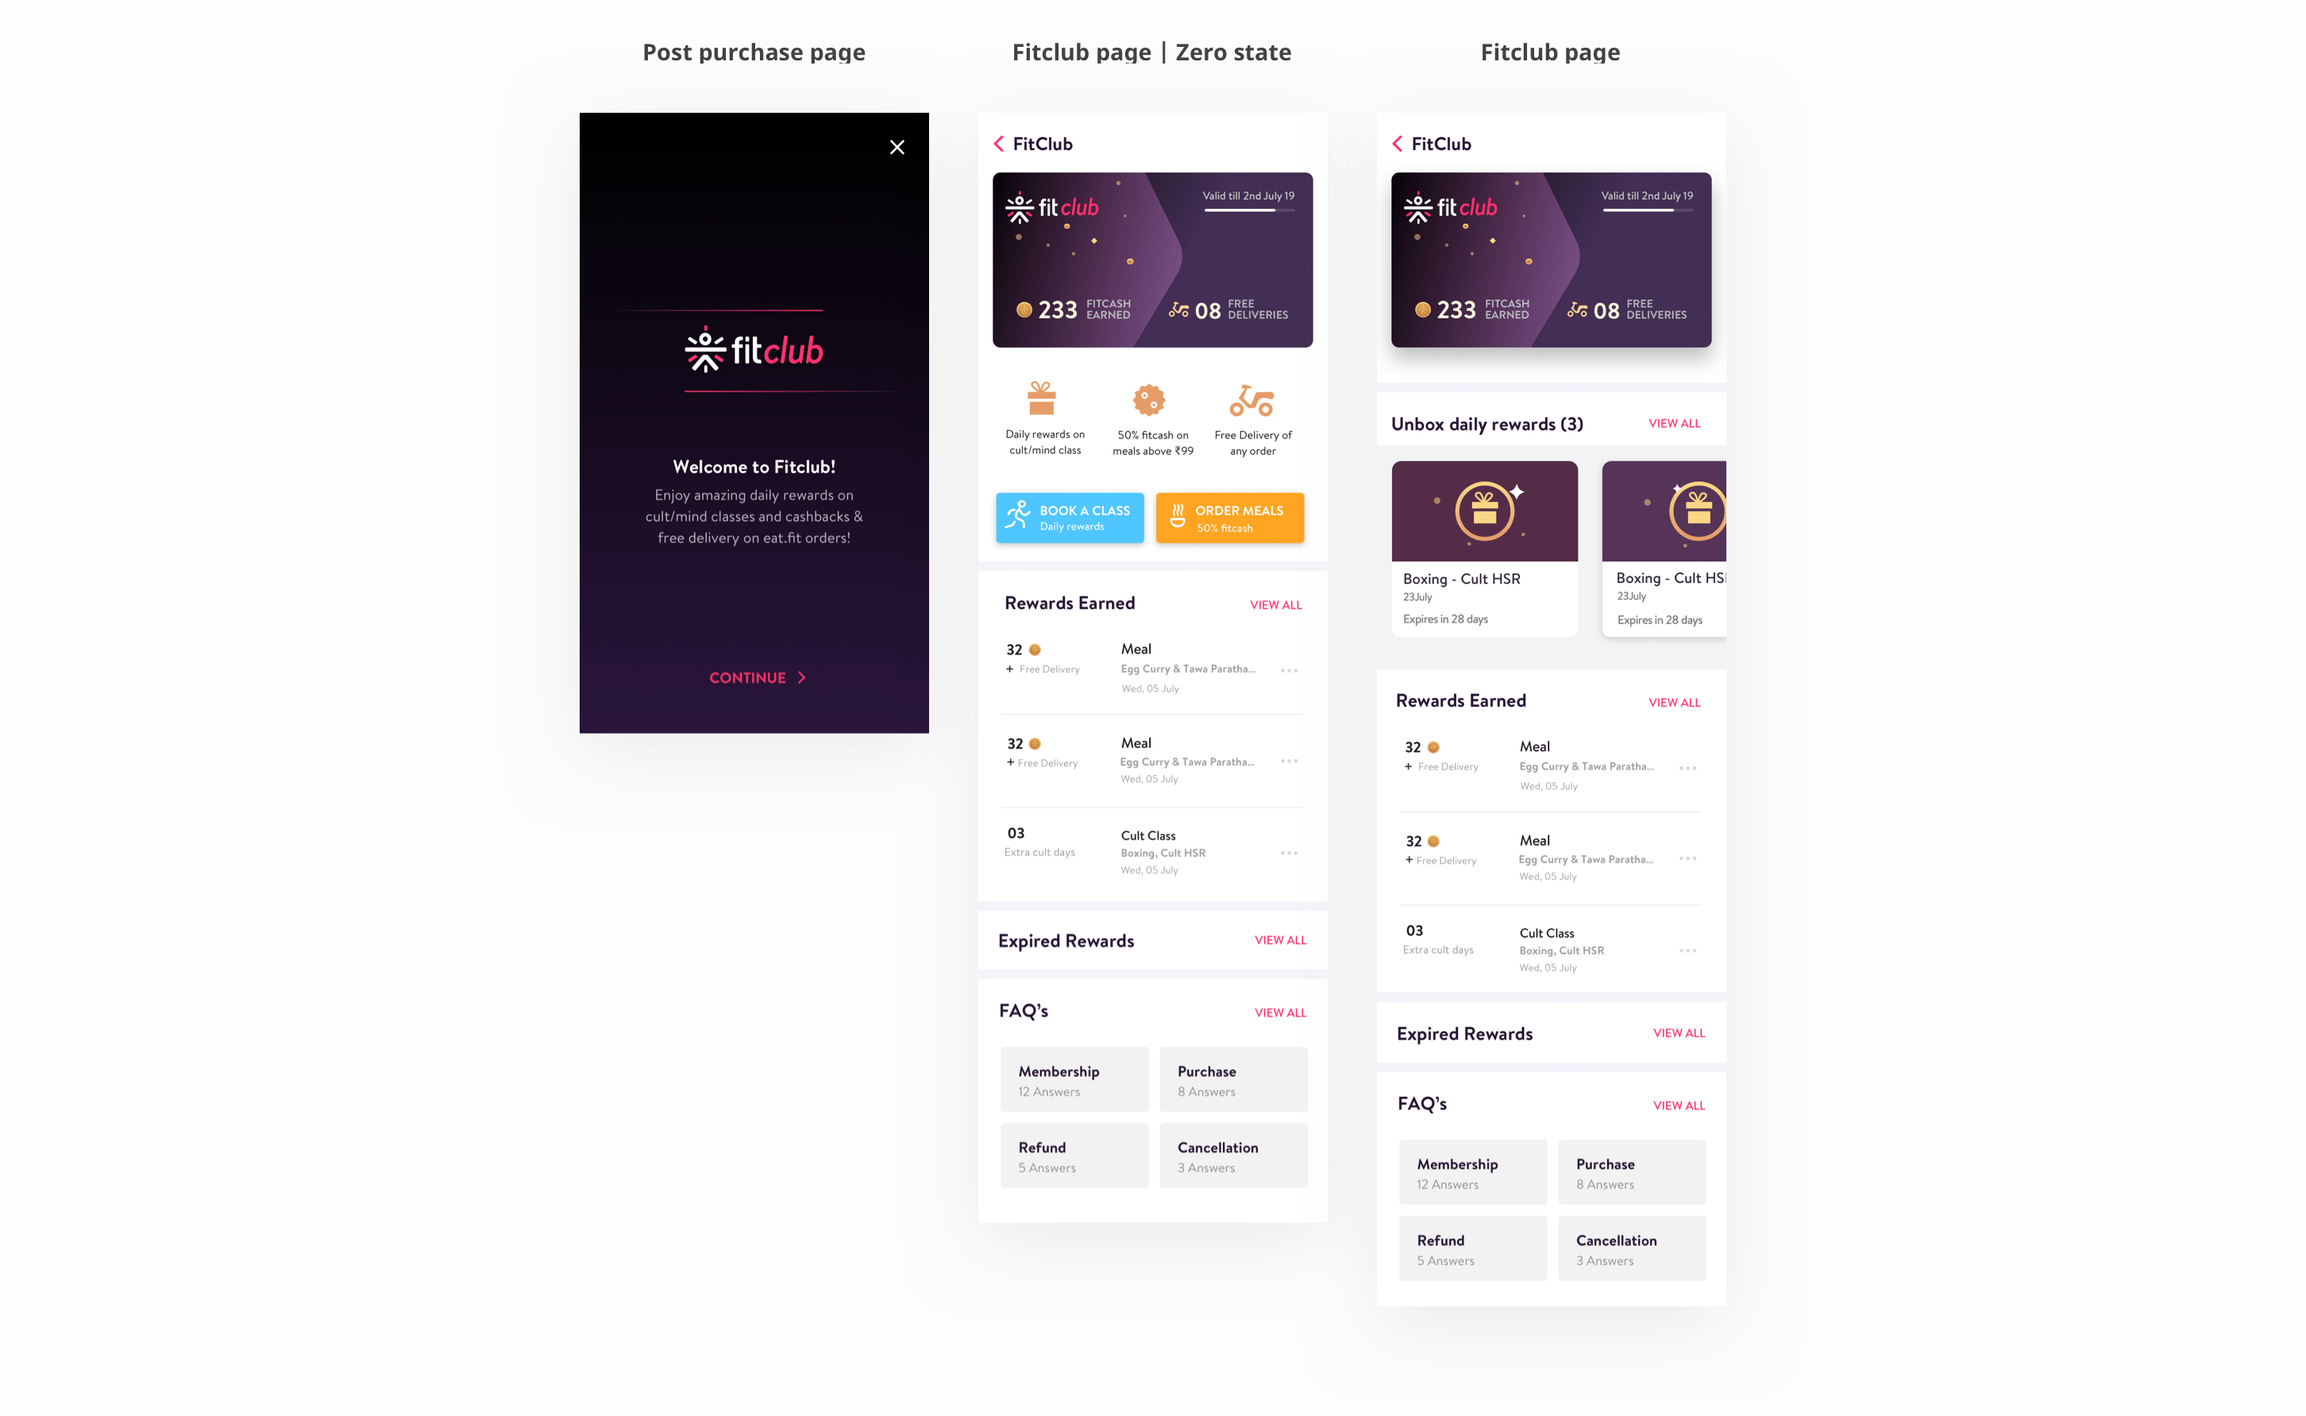
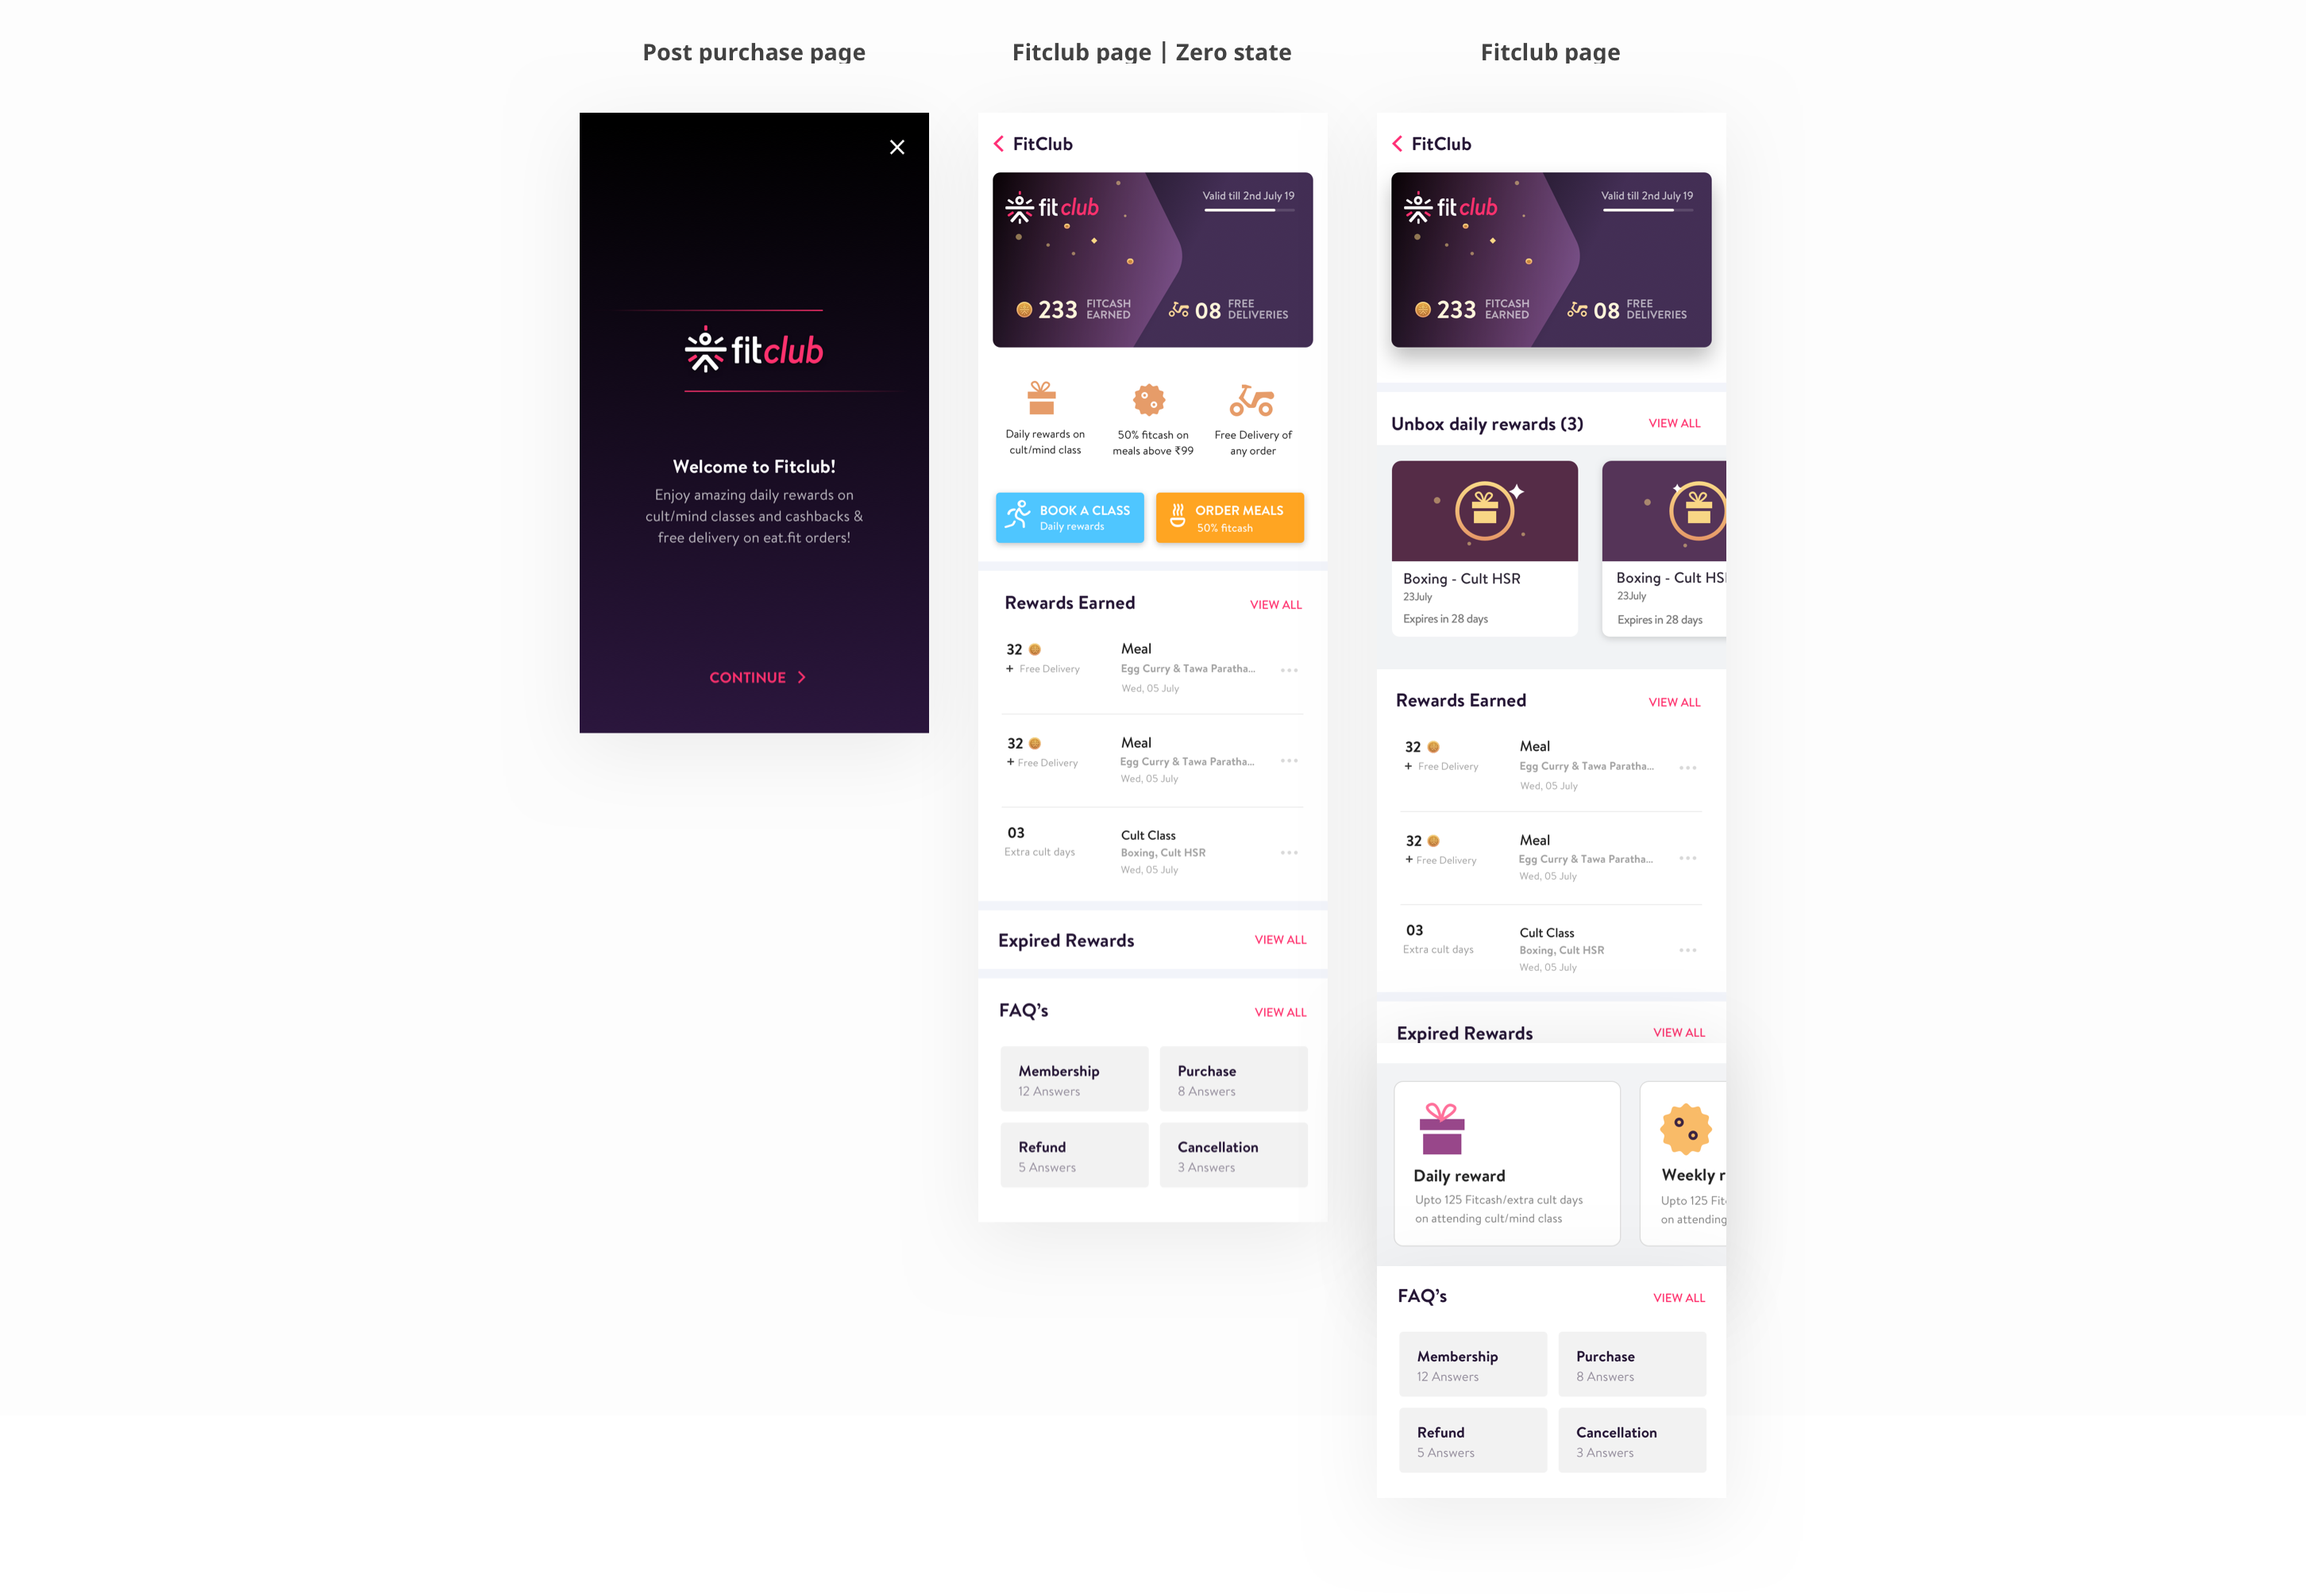
Fitclub article
Added photos, made corrections in the overall infographics

diff --git a/Fitclub.html b/Fitclub.html
@@ -228,6 +228,34 @@ height="0" width="0" style="display:none;visibility:hidden"></iframe></noscript>
 	      <div class="subheading">1. How can users discover fit<i>club</i>?</div>
       <p>
         There are multiple entry points in the whole application from where user can book a class, it is really essential that user gets educated about the fitclub rewards without which the anticipation is not created.
+        <ol>
+          <li>
+            Within application
+              <ul>
+                <li>
+                  Home page
+                </li>
+                <li>
+                  Cult Page Banner (CLP)
+                </li>
+                <li>
+                  Booking flow (different approach used to avoid drop-outs here)
+                </li>
+              </ul>
+            <li>
+              Coorporate Messages
+            </li>
+            <li>
+              Online advertisements
+            </li>  
+            <li>
+              Email subsciption
+            </li>  
+          </li>
+        </ol>
+      <p>
+        Every entry point will lead user to the Fitclub page
+      </p>  
       </p>
       </div>
       </div>
@@ -238,7 +266,40 @@ height="0" width="0" style="display:none;visibility:hidden"></iframe></noscript>
       <div id="text">
       <div class="subheading">2. How can user crave for and claim rewards?</div>
       <p>
-       Cues at every step of class booking keeps the user informed about the coming reward and also becomes the motiviating factor and prevent cancelations. User gets rewarded afterthe class has been completed. 
+       Cues at every step of class booking keeps the user informed about the coming reward and also becomes the motiviating factor and prevent cancelations. User gets rewarded afterthe class has been completed.
+       <ol>
+         <li>
+           Cues before attending
+         </li>
+          <ul>
+           <li>
+             Home
+           </li>
+           <li>
+             Booking confirmation screen
+           </li>
+           <li>
+             Booked Class card | Home
+           </li>
+           <li>
+             Booked class page
+           </li>
+          </ul>
+         <li>
+           Reward collection after attending
+            <ul>
+              <li>
+                Fitclub Page
+              </li>
+              <li>
+                Home Page
+              </li>
+            </ul>
+         </li>  
+       </ol>
+       <p>
+         Reinfrocement is important at the same time it has to be ensured that it is not overdone. 
+       </p> 
       </p><br><br>
       </div>
       </div>
@@ -272,7 +333,7 @@ height="0" width="0" style="display:none;visibility:hidden"></iframe></noscript>
       <div class="parent">
       <div id="text">	
 		
-      <p>
+      
 	      <div class="heading">
         	Discovery points will lead to fitclub page
 	      </div>
@@ -280,8 +341,6 @@ height="0" width="0" style="display:none;visibility:hidden"></iframe></noscript>
         <div class="subheading">
         	Pre-purchase fitclub page
         </div>
-      </p>
-      
       <p>
       	All non-fitclub members are directed to the fitclub page from every discovery point, where they can know every thing about fitclub and its offers and join the membership. 
       </p>
@@ -292,8 +351,14 @@ height="0" width="0" style="display:none;visibility:hidden"></iframe></noscript>
       <div id="text">
       <div class="heading">Post-purchase fitclub page</div>
       <p>
-      	Fitclub membership is complimentory for every cult member. This creates a new problem of discoverability of the beneifts, post purchase fitclub page ensures proper discoverability of benefits even for cult-members through it's zero state.
+        Fitclub membership is complimentory for every cult member. This creates a new problem of discoverability of the beneifts, post purchase fitclub page ensures proper discoverability of benefits even for cult-members through it's zero state. Also it is essential to make sure that the users can still access the benfits once they have purchased the pack. Two different approaches were used here
       </p>
+      </div>
+      </div>
+      <div id="cover4" class="BOB"><img src="./images/Fitclub/post_purchase_approach.png"></div> 
+      <br>
+      <div class="parent">
+      <div id="text">
       <div id="cover" class="BOBm"><img src="./images/Fitclub/post_purchasem.png"></div>
       </div>
       </div>
@@ -310,7 +375,7 @@ height="0" width="0" style="display:none;visibility:hidden"></iframe></noscript>
       	</div>
       </p>
       <p>
-      	<i>Learning with the flow</i> is always more effectove then a single detail page or onboarding. Several nudges all over the application not only educate the user but also generate anticipation as the reward is available only after attending the class. User can reveal the reward from home page or fitclub page. 
+      	<i>Learning with the flow</i> is always more effective then a single detail page or onboarding. Several nudges all over the application not only educate the user but also generate anticipation as the reward is available only after attending the class. User can reveal the reward from home page or fitclub page. 
       </p>
       </div>
       </div>
@@ -411,22 +476,7 @@ height="0" width="0" style="display:none;visibility:hidden"></iframe></noscript>
     </div>
 		</div>
     </div>
-    <a href="./Pibit.html">
-      <div id="bg_grey" style="display: flex; margin-bottom: 6rem; margin-top: 4rem">
-      
-        <div id="text">
-          <div class="subheading" style="color: #999999;">
-            Next Blog
-          </div>
-          <div class="heading" style="margin-top: 1rem; margin-bottom: 2rem ">
-            Starting my career with Pibit
-          </div>
-        </div>
-      <div style="padding: 10% 0; padding-right: 8%;">
-          <span class="fa fa-arrow-right" style="font-size:32px;color:#999999;padding-right: .26em; padding-top: .15rem;"></span>
-      </div>  
-    </div>
-    </a>
+    
     
 
 
